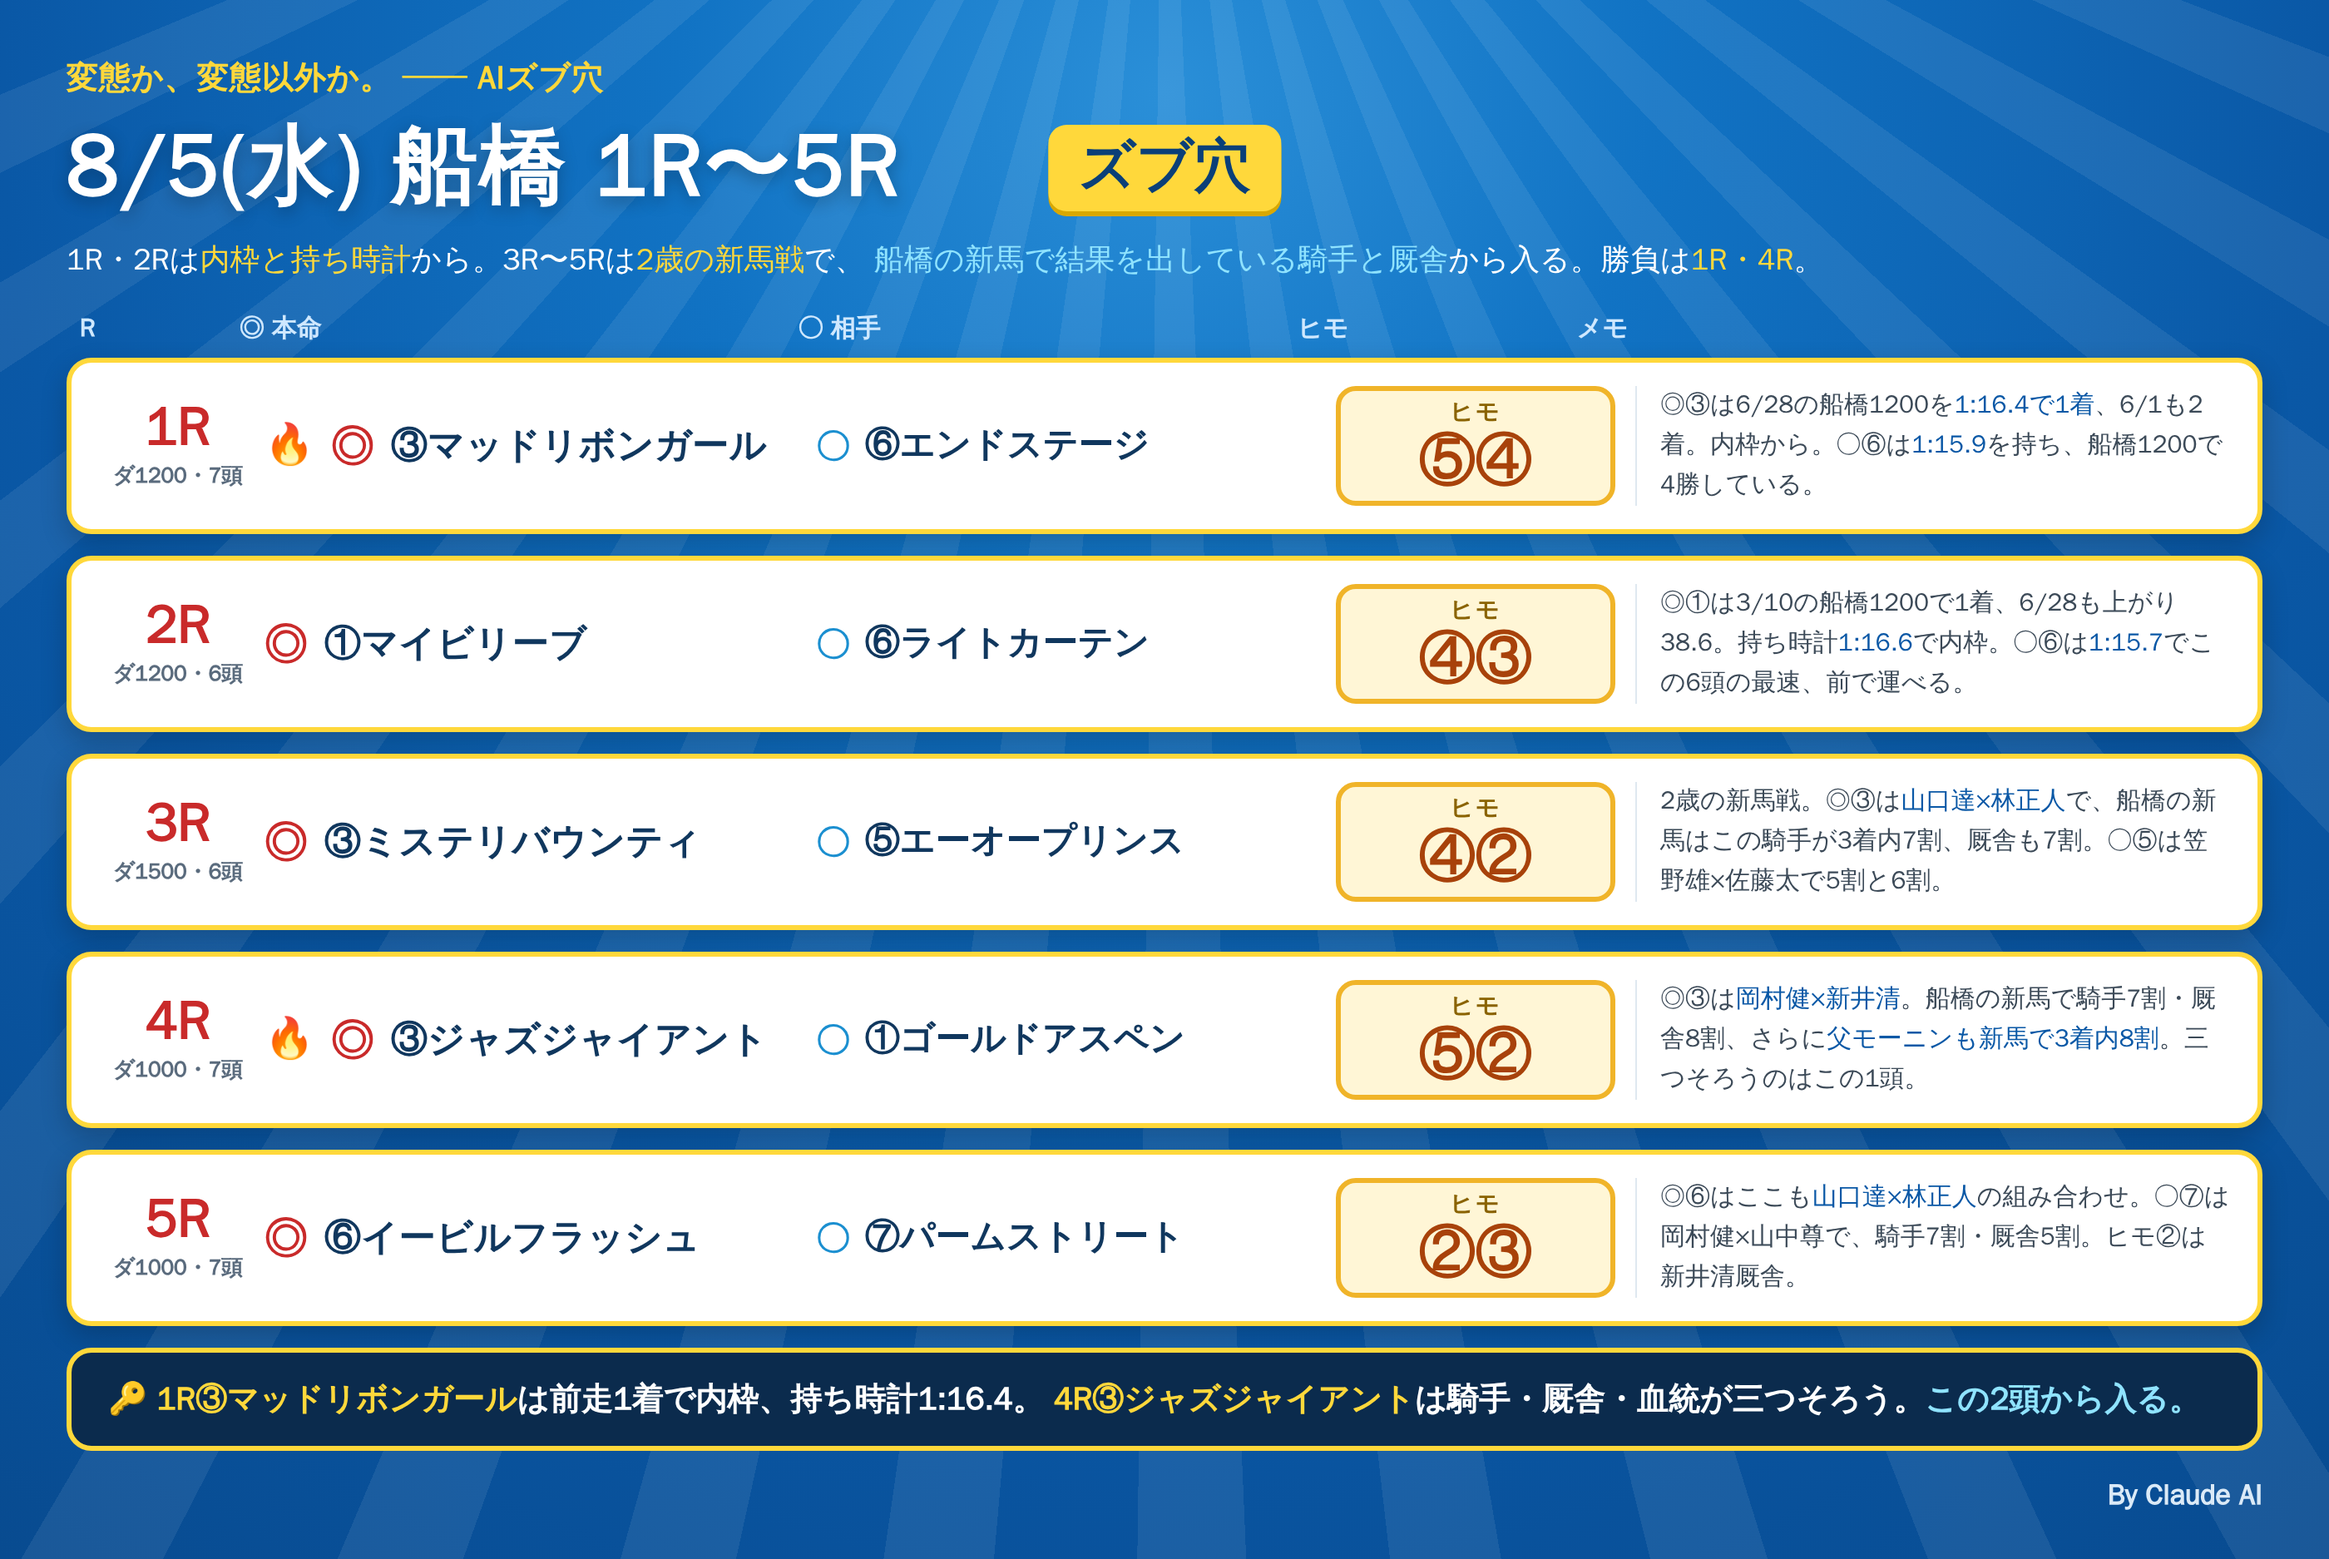
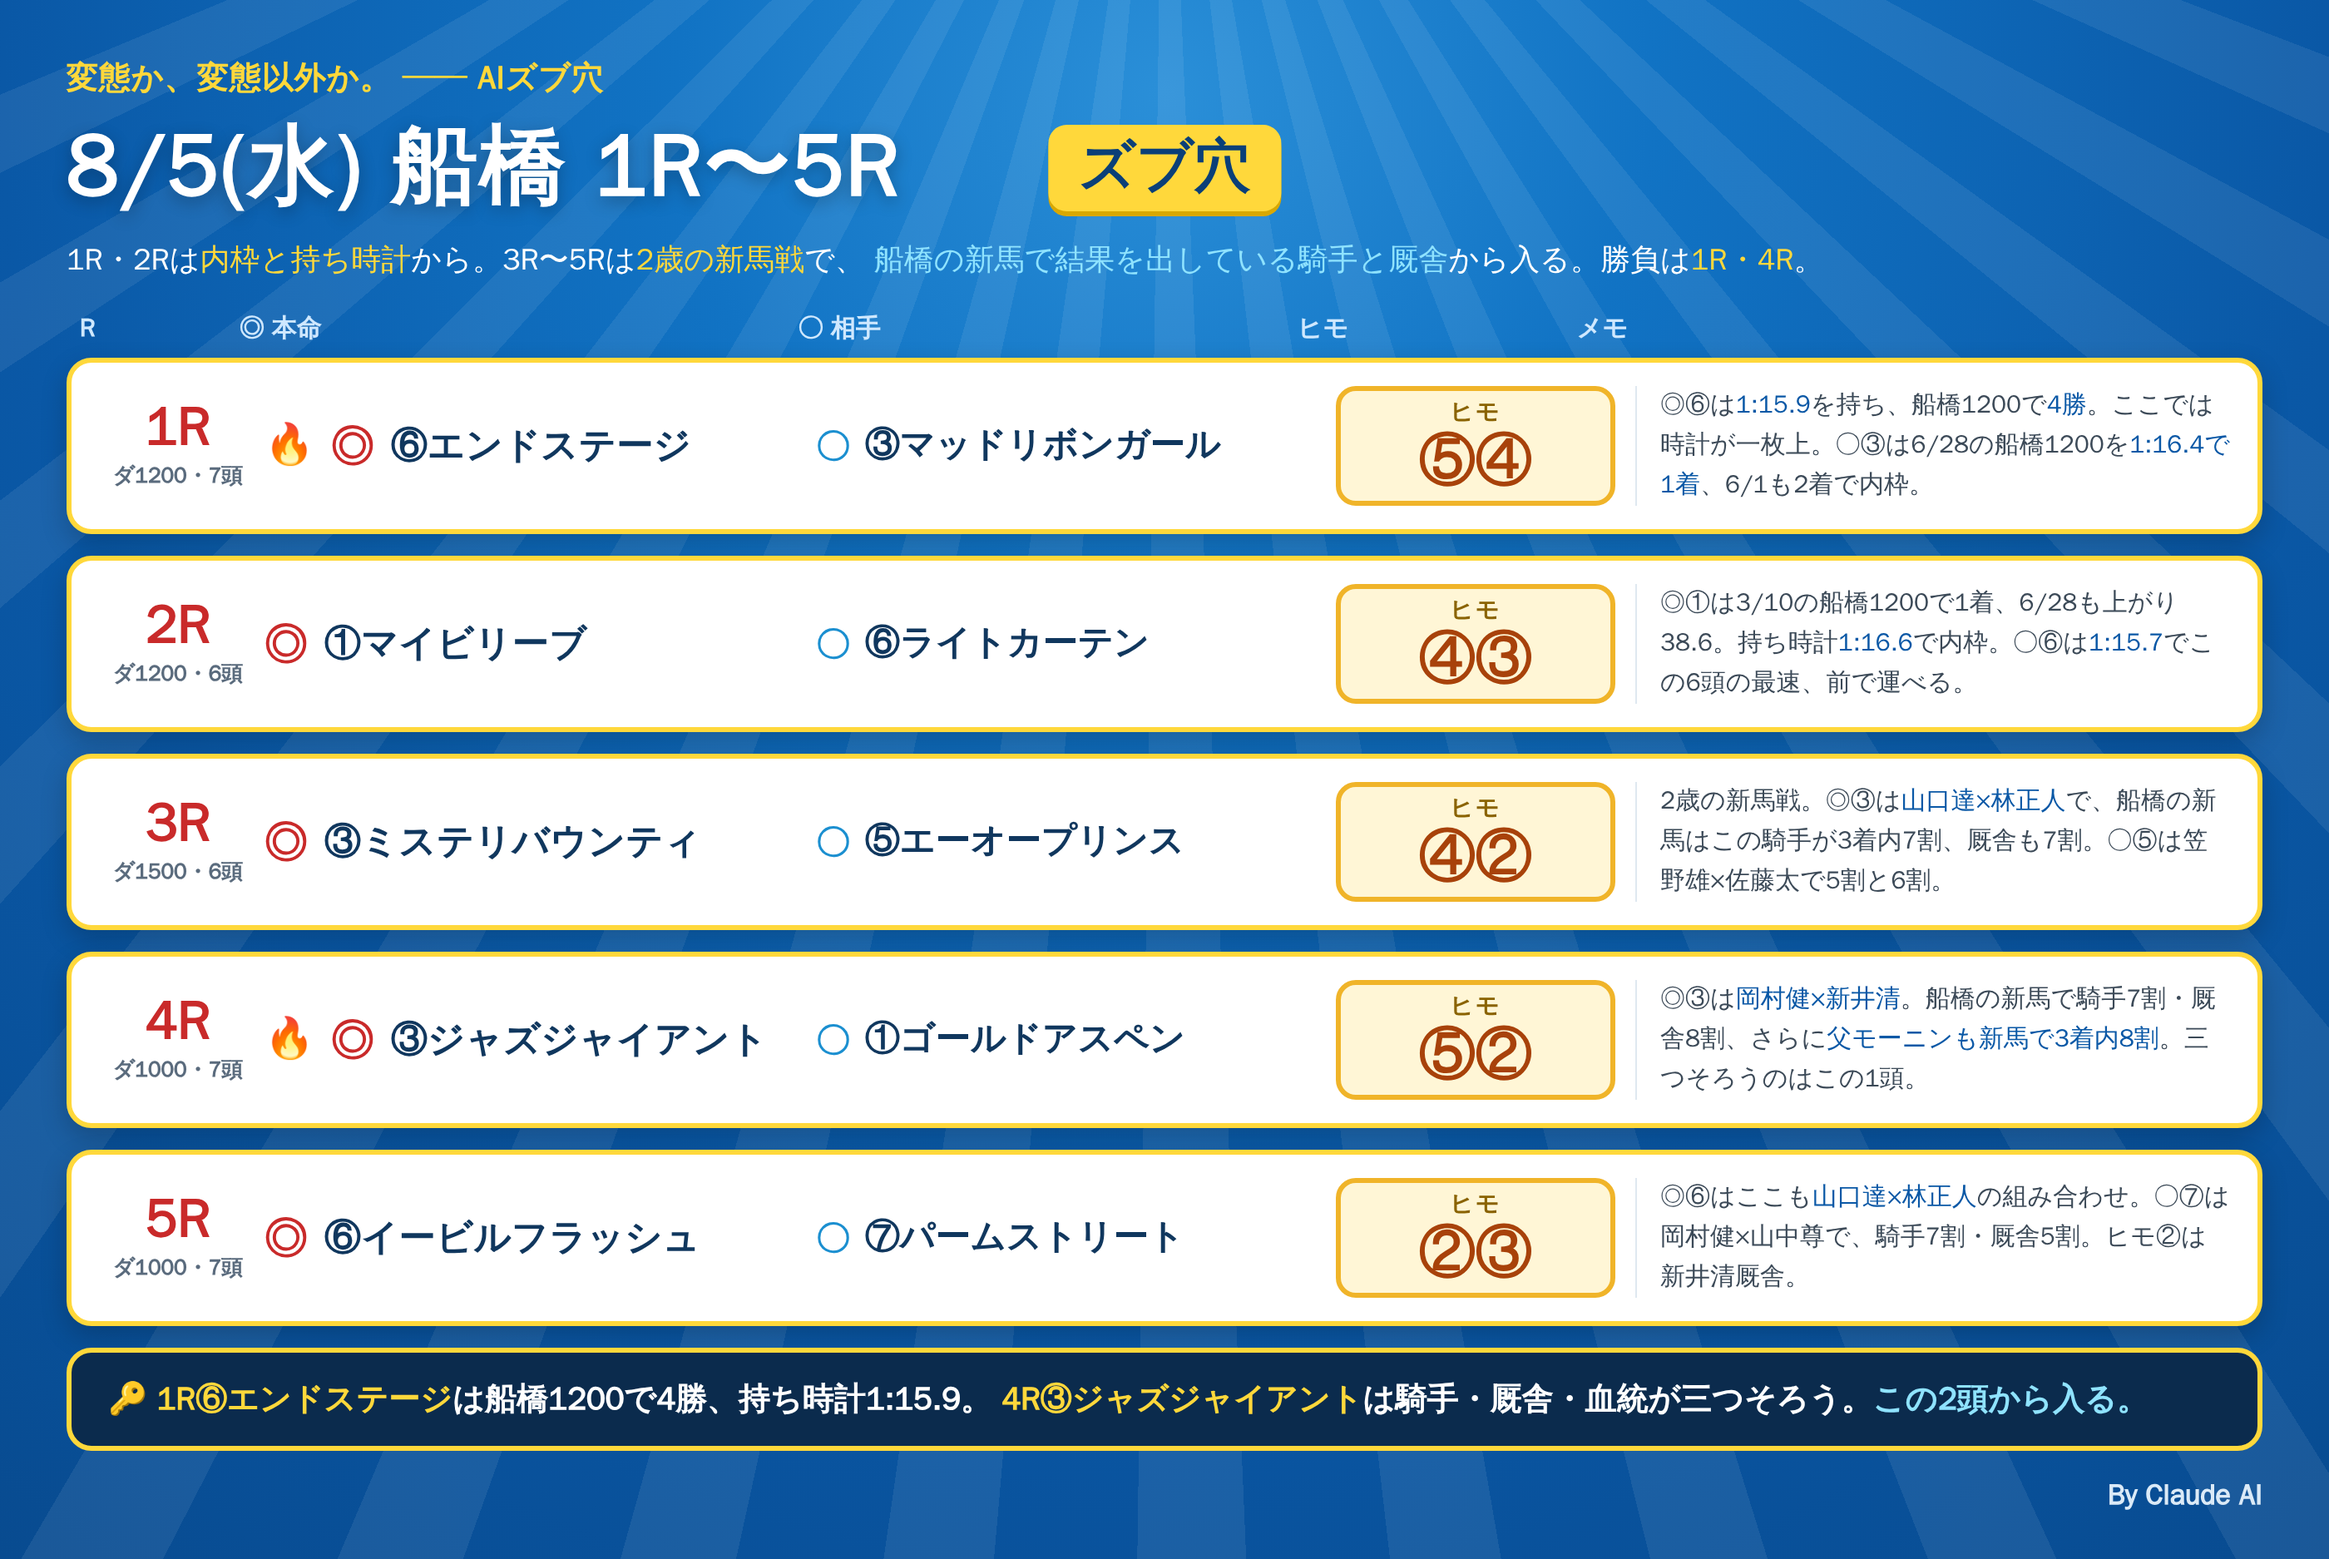
notes: swap 1R marks to 6 and 3
Claude-Session: https://claude.ai/code/session_01RoHscZkr96FNaxQWvUqgEw

diff --git a/notes/live/2026-08-05/funabashi_1_5.html b/notes/live/2026-08-05/funabashi_1_5.html
@@ -57,10 +57,10 @@
 
   <div class="row">
     <div class="rN"><div class="n">1R</div><div class="d">ダ1200・7頭</div></div>
-    <div class="hm"><span class="fire">🔥</span><span class="mk">◎</span><span class="nm">③マッドリボンガール</span></div>
-    <div class="at"><span class="mk2">○</span><span class="nm2">⑥エンドステージ</span></div>
+    <div class="hm"><span class="fire">🔥</span><span class="mk">◎</span><span class="nm">⑥エンドステージ</span></div>
+    <div class="at"><span class="mk2">○</span><span class="nm2">③マッドリボンガール</span></div>
     <div class="hi"><div class="lb">ヒモ</div><div class="v">⑤④</div></div>
-    <div class="memo">◎③は6/28の船橋1200を<b>1:16.4で1着</b>、6/1も2着。内枠から。○⑥は<b>1:15.9</b>を持ち、船橋1200で4勝している。</div>
+    <div class="memo">◎⑥は<b>1:15.9</b>を持ち、船橋1200で<b>4勝</b>。ここでは時計が一枚上。○③は6/28の船橋1200を<b>1:16.4で1着</b>、6/1も2着で内枠。</div>
   </div>
 
   <div class="row">
@@ -95,7 +95,7 @@
     <div class="memo">◎⑥はここも<b>山口達×林正人</b>の組み合わせ。○⑦は岡村健×山中尊で、騎手7割・厩舎5割。ヒモ②は新井清厩舎。</div>
   </div>
 
-  <div class="foot">🔑 <span class="y">1R③マッドリボンガール</span>は前走1着で内枠、持ち時計1:16.4。
+  <div class="foot">🔑 <span class="y">1R⑥エンドステージ</span>は船橋1200で4勝、持ち時計1:15.9。
   <span class="y">4R③ジャズジャイアント</span>は騎手・厩舎・血統が三つそろう。<span class="c">この2頭から入る。</span></div>
   <div class="sig">By Claude AI</div>
 </div></div>
